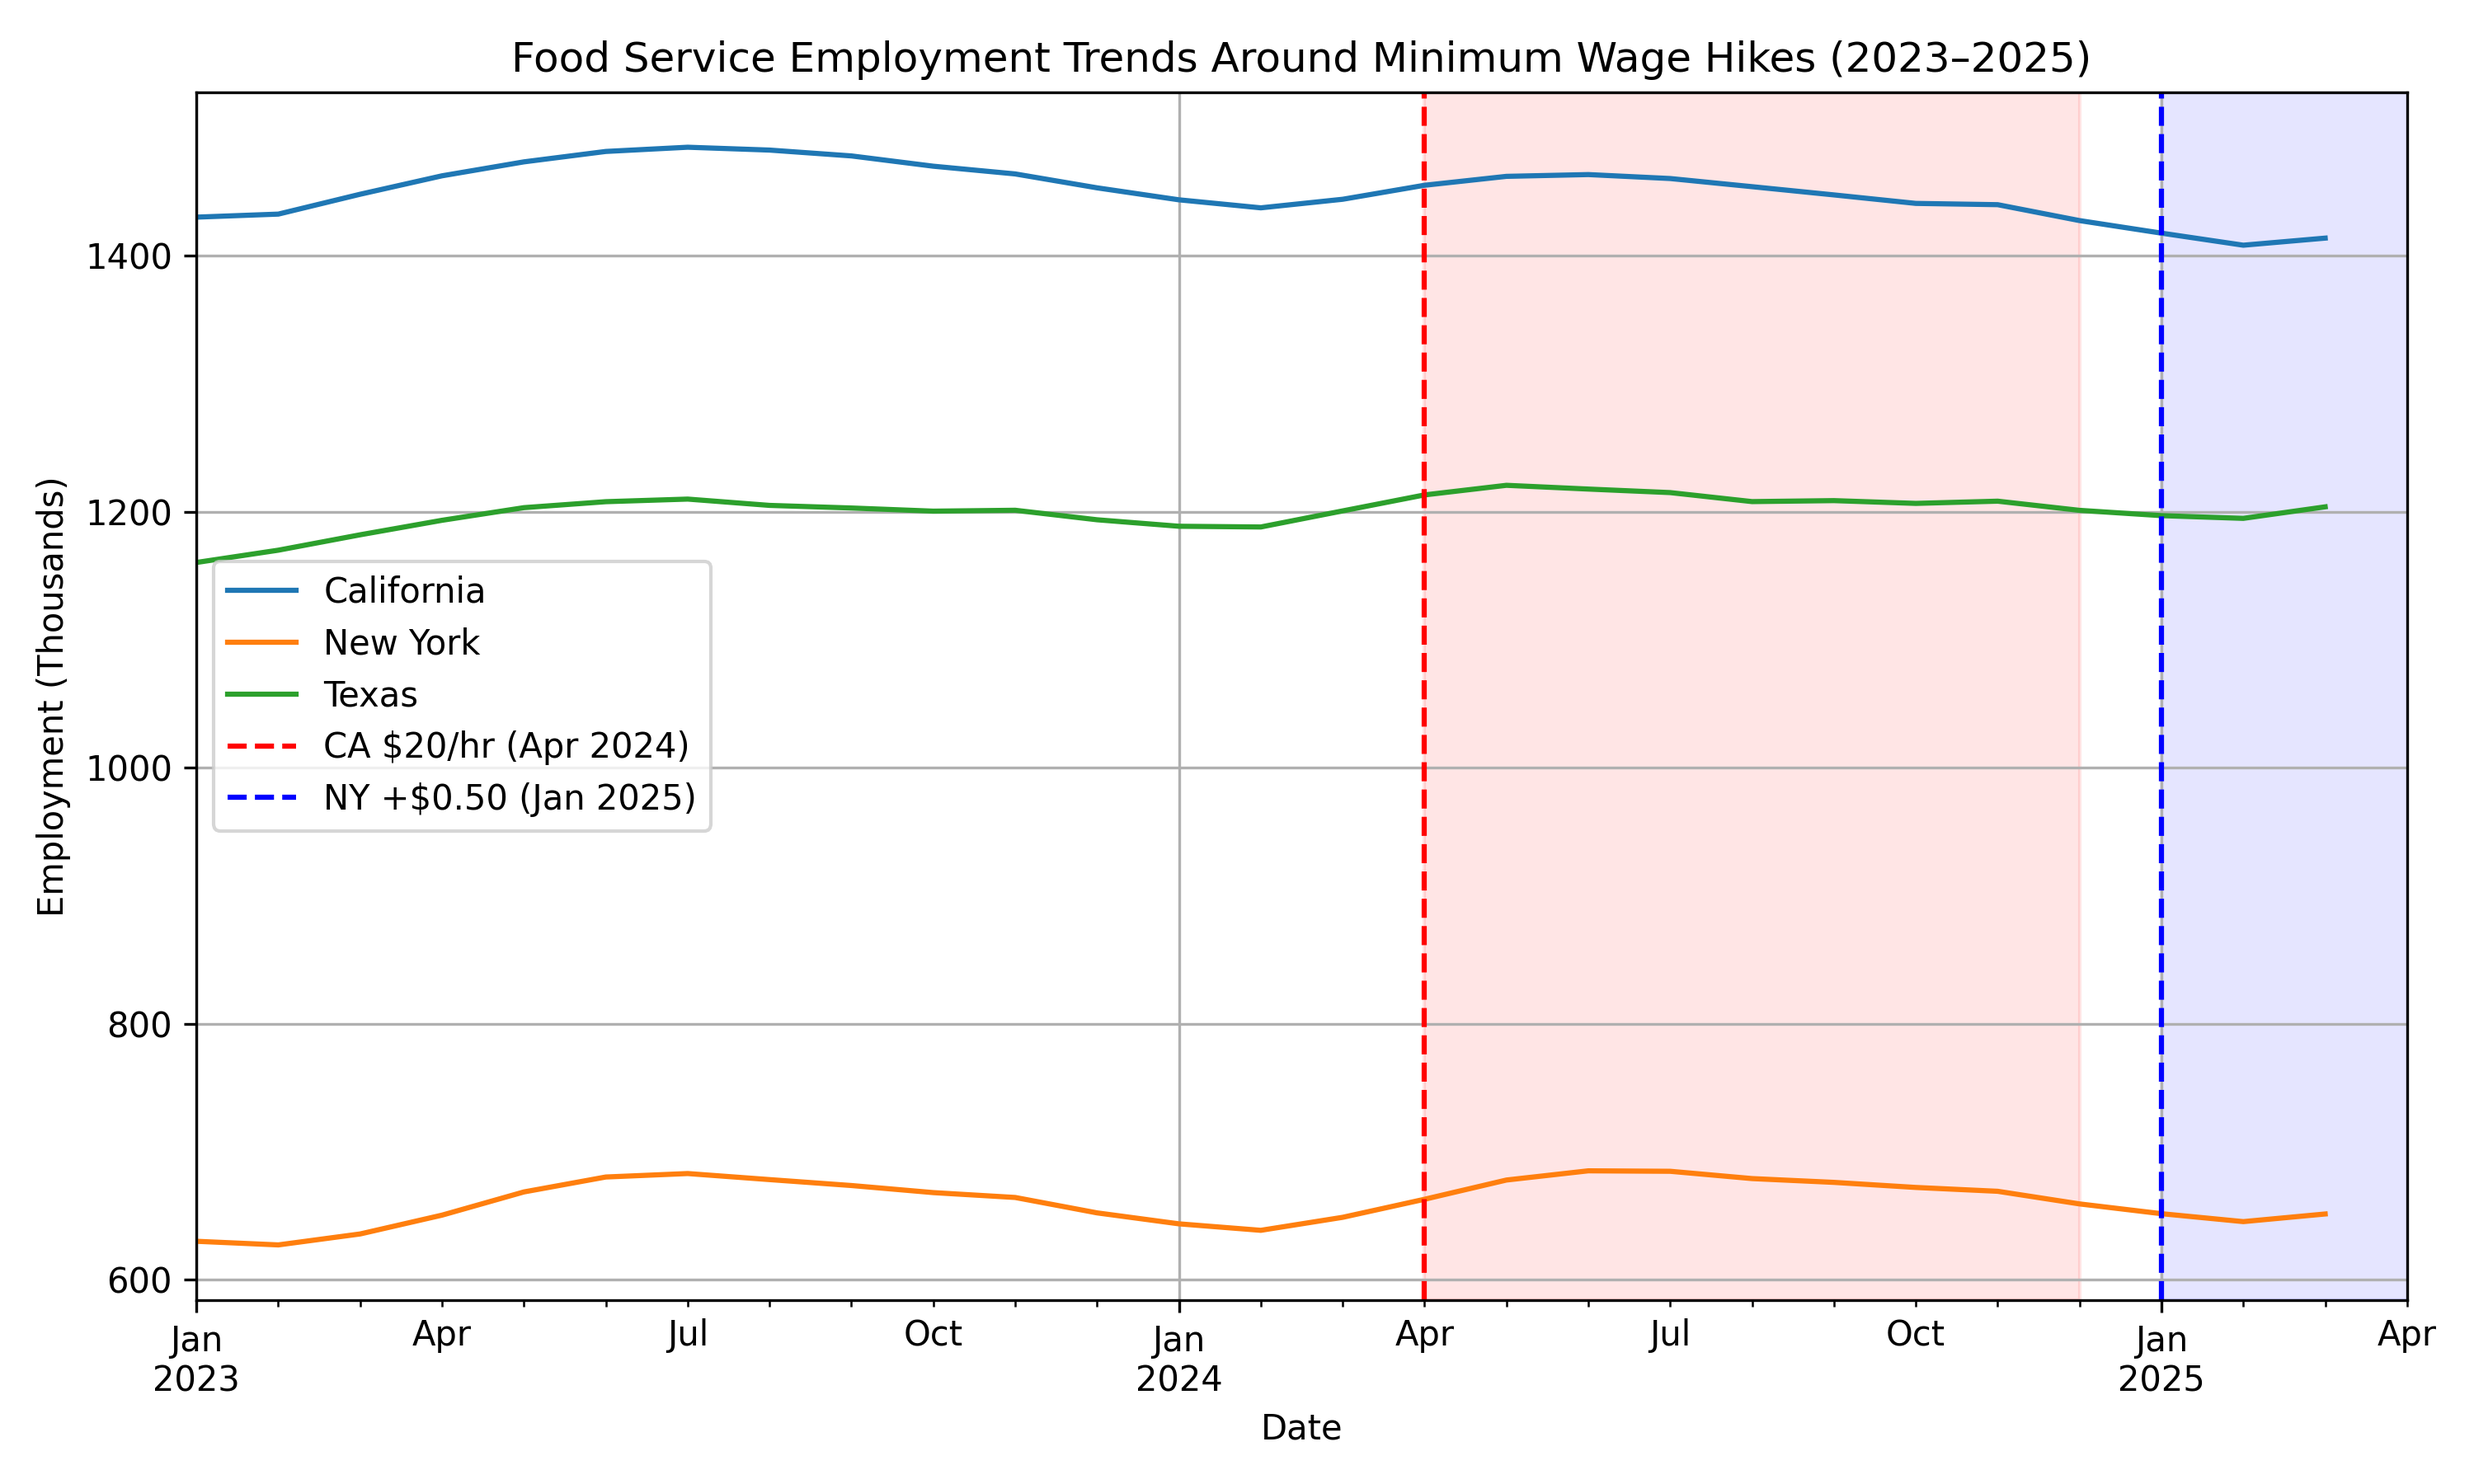
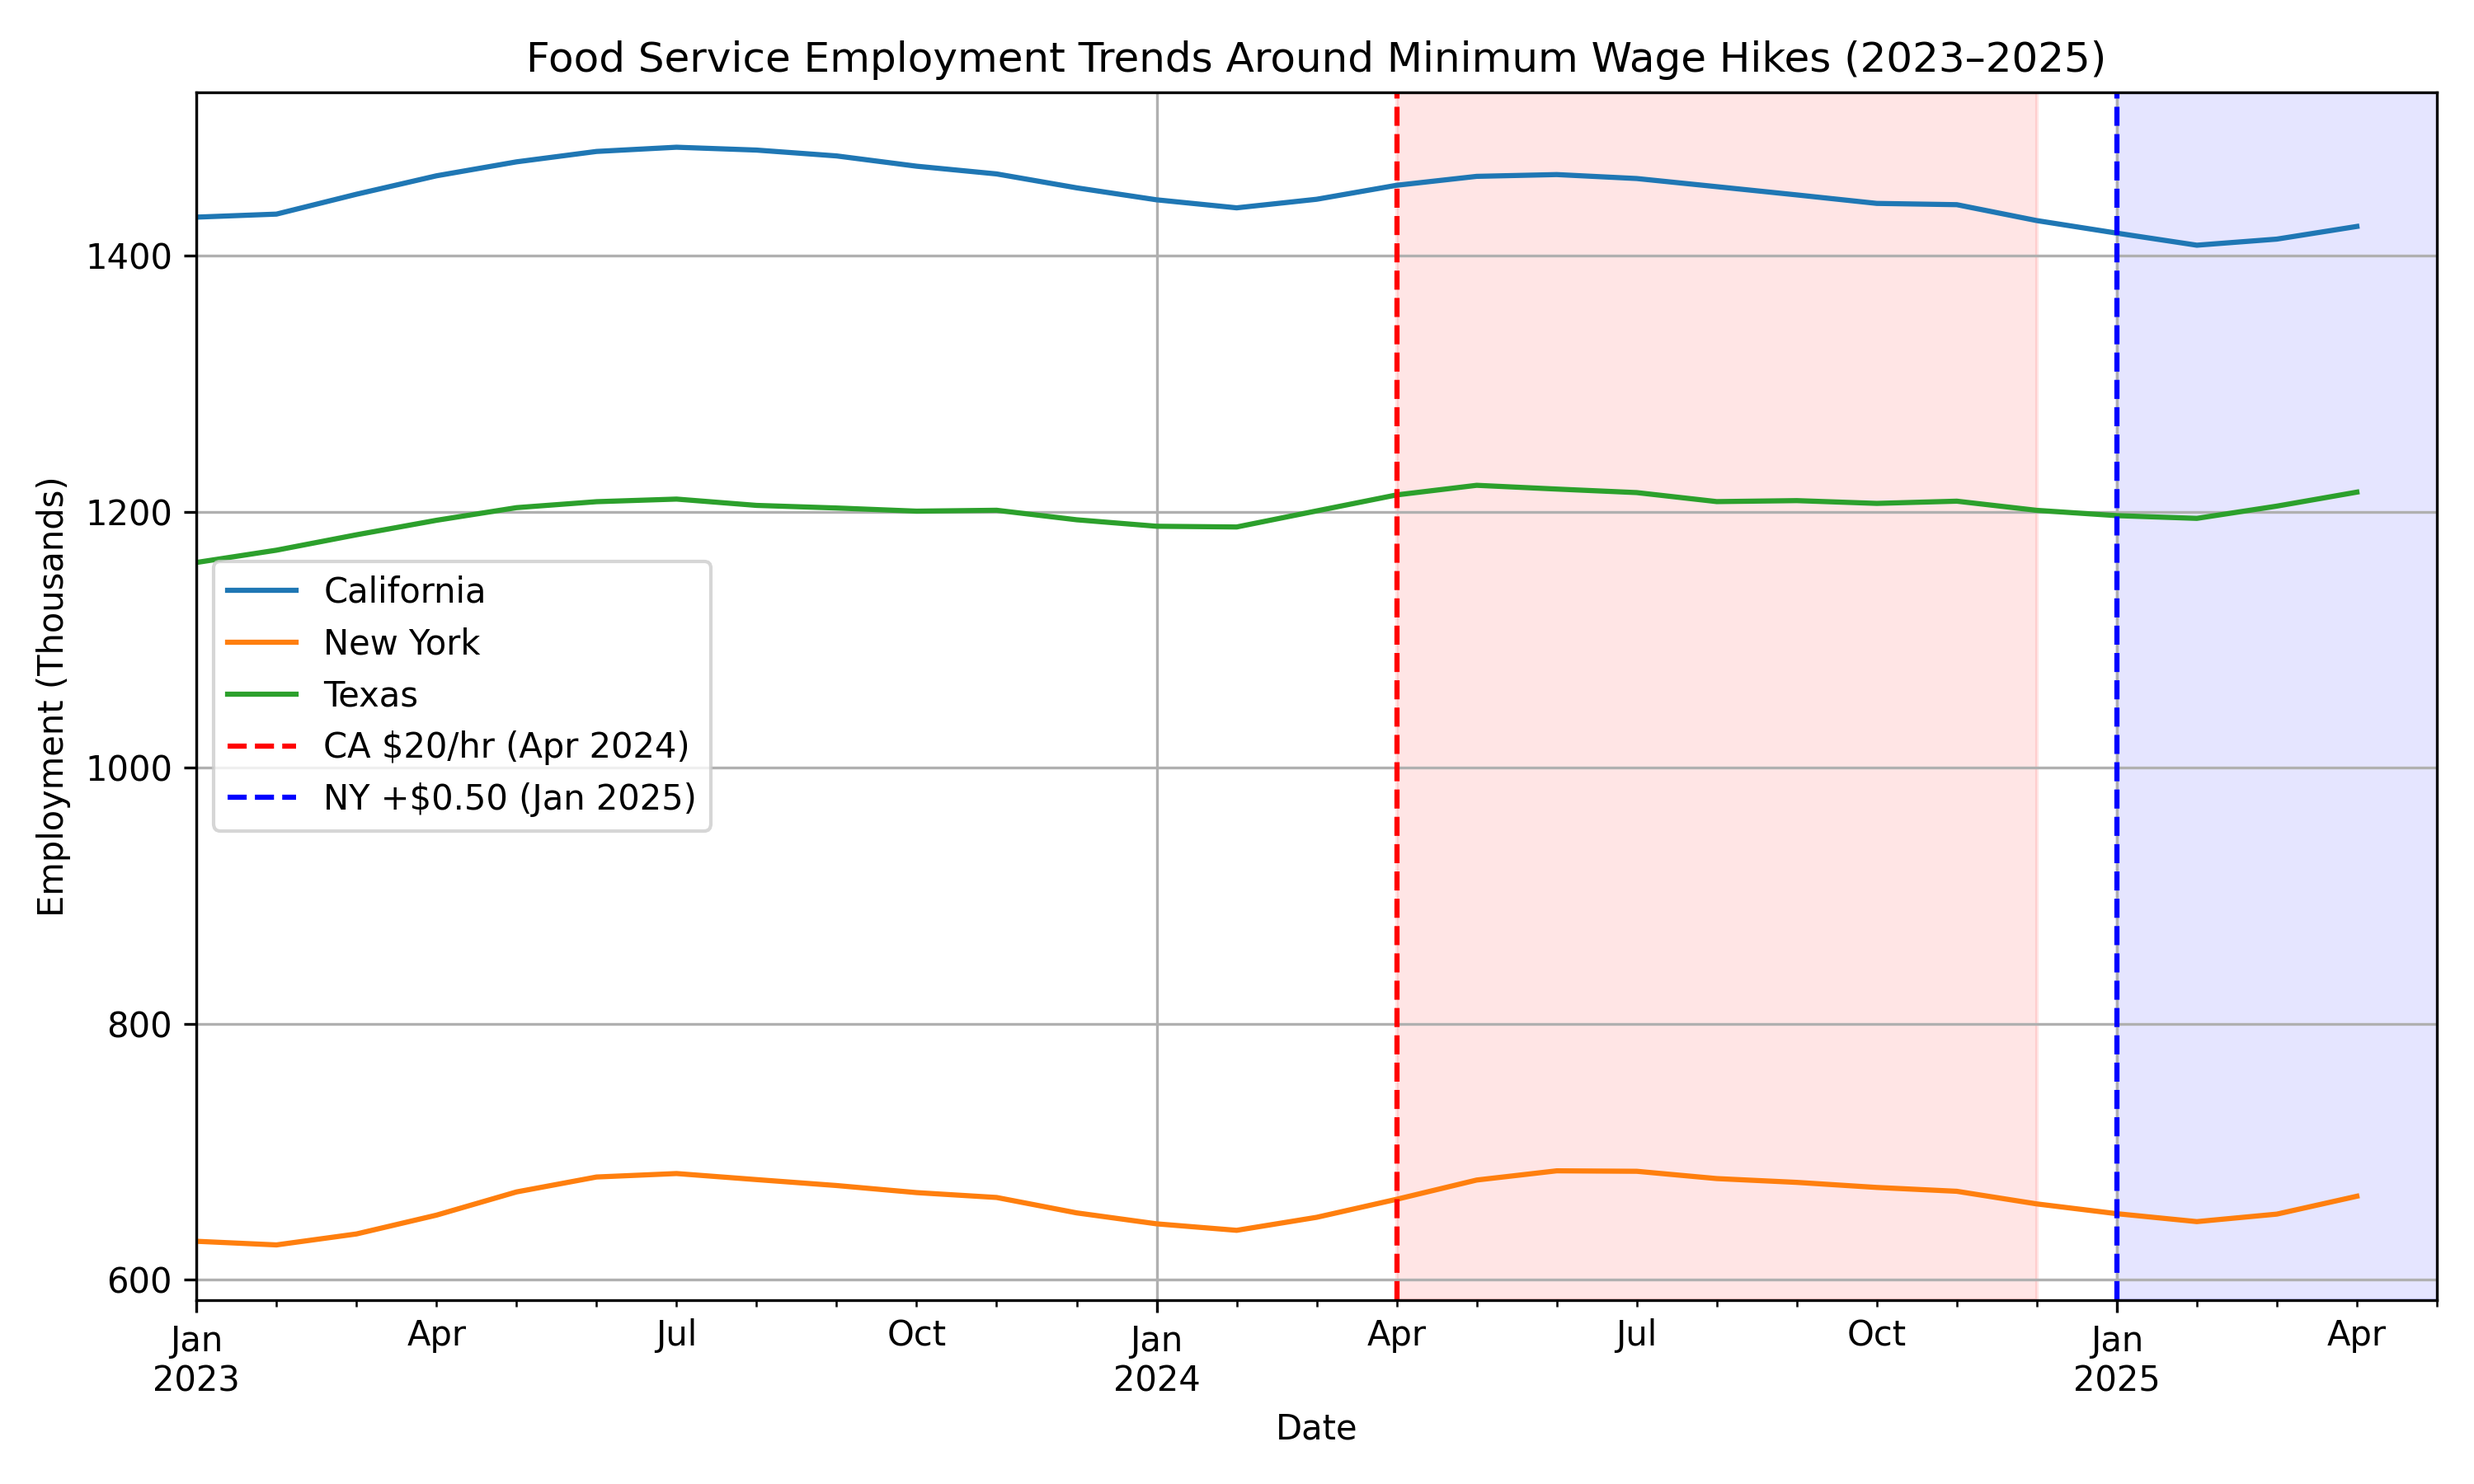
Updated to july 2025 and event studies

diff --git a/did_analysis.py b/did_analysis.py
@@ -1,5 +1,6 @@
 import pandas as pd
 import statsmodels.formula.api as smf
+import statsmodels.api as sm
 import matplotlib.pyplot as plt
 import os
 
@@ -9,79 +10,129 @@ def run_did():
     results_dir = "results"
     os.makedirs(results_dir, exist_ok=True)
 
-    # ---------- CA vs TX ----------
+    # ---------- CA vs TX DiD ----------
     print("Running CA vs TX DiD...")
+    results_file_ca = os.path.join(results_dir, "did_summary_ca.txt")
 
-    results_file = os.path.join(results_dir, "did_summary.txt")
-
-    # Load data
+    # Load & filter data
     df = pd.read_csv(data_file, parse_dates=True, index_col=0)
-    df = df[["California", "Texas"]]  # Focus on CA (treatment) vs TX (control)
+    df = df[['California', 'Texas']]
+    df = df.loc['2022-01-01':'2025-07-31']
 
-    # Filter date range
-    df = df[df.index >= "2022-01-01"]
-    df = df[df.index <= "2025-06-01"]
+    # Reshape and create indicators
+    ca = df.reset_index().rename(columns={'index': 'date'})
+    long_ca = ca.melt(id_vars='date', var_name='state', value_name='employment')
+    long_ca['treated'] = (long_ca['state'] == 'California').astype(int)
+    long_ca['post_policy'] = (long_ca['date'] >= pd.to_datetime('2024-04-01')).astype(int)
 
-    # Reshape to long format
-    df = df.reset_index().rename(columns={"index": "date"})
-    long_df = df.melt(id_vars="date", var_name="state", value_name="employment")
-    # Define treatment and post-policy indicators
-    long_df["treated"] = (long_df["state"] == "California").astype(int)
-    long_df["post_policy"] = (long_df["date"] >= "2024-04-01").astype(int)
+    # Run DiD with robust SE
+    model_ca = smf.ols('employment ~ treated + post_policy + treated:post_policy', data=long_ca).fit(cov_type='HC1')
+    with open(results_file_ca, 'w') as f:
+        f.write(model_ca.summary().as_text())
+    print(f"CA DiD summary saved to {results_file_ca}")
 
-    # DiD regression
-    model = smf.ols("employment ~ treated + post_policy + treated:post_policy", data=long_df).fit()
-
-    # Save results
-    with open(results_file, "w") as f:
-        f.write(model.summary().as_text())
-
-    print(f"DiD regression complete. Summary saved to: {results_file}")
-
-    # Optional: plot parallel trends
-    pivot_df = long_df.pivot(index="date", columns="state", values="employment")
-    plt.figure(figsize=(10, 6))
-    pivot_df.plot(ax=plt.gca())
-    plt.axvline(pd.to_datetime("2024-04-01"), color='red', linestyle='--', label='Policy Date')
-    plt.title("Food Service Employment: CA vs TX (2022–2025)")
-    plt.ylabel("Employment (Thousands)")
+    # Plot parallel trends
+    pivot_ca = long_ca.pivot(index='date', columns='state', values='employment')
+    plt.figure(figsize=(8,5))
+    pivot_ca.plot(ax=plt.gca())
+    plt.axvline(pd.to_datetime('2024-04-01'), color='r', linestyle='--', label='Policy Date')
+    plt.title('CA vs TX Employment Trends')
     plt.legend()
-    plt.grid(True)
     plt.tight_layout()
-    plt.savefig("figures/did_plot_ca_tx.png", dpi=300)
+    plt.savefig('figures/ca_tx_trends.png')
     plt.close()
 
-    print("Parallel trends plot saved to: figures/did_plot_ca_tx.png")
+    # ---------- CA Event Study ----------
+    print("Running CA event study...")
+    policy_date_ca = pd.to_datetime('2024-04-01')
+    long_ca['rel_month'] = (long_ca['date'].dt.to_period('M') - policy_date_ca.to_period('M')).apply(lambda x: x.n)
+    for m in range(-12, 13):
+        if m != 0:
+            long_ca[f'rel_{m}'] = ((long_ca['rel_month'] == m) & (long_ca['treated'] == 1)).astype(int)
 
-    # ---------- NY vs TX ----------
-    print("\nRunning NY vs TX DiD...")
+    # Only include dummy indicators, exclude helper column
+    rel_cols_ca = [c for c in long_ca.columns if c.startswith('rel_') and c != 'rel_month']
+    rel_cols_ca = sorted(rel_cols_ca, key=lambda x: int(x.split('_')[1]))
 
+    # Build design matrix
+    X_ca = long_ca[rel_cols_ca + ['treated']]
+    X_ca = sm.add_constant(X_ca)
+    y_ca = long_ca['employment']
+    evt_ca = sm.OLS(y_ca, X_ca).fit(cov_type='HC1')
+
+    coefs_ca = evt_ca.params[rel_cols_ca]
+    cis_ca = evt_ca.conf_int().loc[rel_cols_ca]
+    months_ca = [int(c.split('_')[1]) for c in rel_cols_ca]
+
+    plt.figure(figsize=(8,5))
+    plt.errorbar(months_ca, coefs_ca, yerr=[coefs_ca - cis_ca[0], cis_ca[1] - coefs_ca], fmt='o')
+    plt.axhline(0, color='k', ls='--')
+    plt.axvline(0, color='r', ls='--', label='Policy Implementation')
+    plt.title('CA Event Study')
+    plt.xlabel('Months Relative to Policy')
+    plt.ylabel('Employment Effect')
+    plt.legend()
+    plt.tight_layout()
+    plt.savefig('figures/event_study_ca.png')
+    plt.close()
+    print("CA event study plot saved.")
+
+    # ---------- NY vs TX DiD ----------
+    print("Running NY vs TX DiD...")
     results_file_ny = os.path.join(results_dir, "did_summary_ny.txt")
     df_ny = pd.read_csv(data_file, parse_dates=True, index_col=0)
-    df_ny = df_ny[["New York", "Texas"]]
-    df_ny = df_ny[df_ny.index >= "2022-01-01"]
-    df_ny = df_ny[df_ny.index <= "2025-06-01"]
-    df_ny = df_ny.reset_index().rename(columns={"index": "date"})
-    long_df_ny = df_ny.melt(id_vars="date", var_name="state", value_name="employment")
-    long_df_ny["treated"] = (long_df_ny["state"] == "New York").astype(int)
-    long_df_ny["post_policy"] = (long_df_ny["date"] >= "2025-01-01").astype(int)
+    df_ny = df_ny[['New York', 'Texas']]
+    df_ny = df_ny.loc['2022-01-01':'2025-07-31']
 
-    model_ny = smf.ols("employment ~ treated + post_policy + treated:post_policy", data=long_df_ny).fit()
-    with open(results_file_ny, "w") as f:
+    ny = df_ny.reset_index().rename(columns={'index': 'date'})
+    long_ny = ny.melt(id_vars='date', var_name='state', value_name='employment')
+    long_ny['treated'] = (long_ny['state'] == 'New York').astype(int)
+    long_ny['post_policy'] = (long_ny['date'] >= pd.to_datetime('2025-01-01')).astype(int)
+
+    model_ny = smf.ols('employment ~ treated + post_policy + treated:post_policy', data=long_ny).fit(cov_type='HC1')
+    with open(results_file_ny, 'w') as f:
         f.write(model_ny.summary().as_text())
+    print(f"NY DiD summary saved to {results_file_ny}")
 
-    print(f"NY DiD regression complete. Summary saved to: {results_file_ny}")
-
-    pivot_df_ny = long_df_ny.pivot(index="date", columns="state", values="employment")
-    plt.figure(figsize=(10, 6))
-    pivot_df_ny.plot(ax=plt.gca())
-    plt.axvline(pd.to_datetime("2025-01-01"), color='red', linestyle='--', label='Policy Date')
-    plt.title("Food Service Employment: NY vs TX (2022–2025)")
-    plt.ylabel("Employment (Thousands)")
+    pivot_ny = long_ny.pivot(index='date', columns='state', values='employment')
+    plt.figure(figsize=(8,5))
+    pivot_ny.plot(ax=plt.gca())
+    plt.axvline(pd.to_datetime('2025-01-01'), color='r', linestyle='--', label='Policy Date')
+    plt.title('NY vs TX Employment Trends')
     plt.legend()
-    plt.grid(True)
     plt.tight_layout()
-    plt.savefig("figures/did_plot_ny_tx.png", dpi=300)
+    plt.savefig('figures/ny_tx_trends.png')
     plt.close()
 
-    print("Parallel trends plot saved to: figures/did_plot_ny_tx.png")
+    # ---------- NY Event Study ----------
+    print("Running NY event study...")
+    policy_date_ny = pd.to_datetime('2025-01-01')
+    long_ny['rel_month'] = (long_ny['date'].dt.to_period('M') - policy_date_ny.to_period('M')).apply(lambda x: x.n)
+    for m in range(-12, 13):
+        if m != 0:
+            long_ny[f'rel_{m}'] = ((long_ny['rel_month'] == m) & (long_ny['treated'] == 1)).astype(int)
+
+    rel_cols_ny = [c for c in long_ny.columns if c.startswith('rel_') and c != 'rel_month']
+    rel_cols_ny = sorted(rel_cols_ny, key=lambda x: int(x.split('_')[1]))
+
+    X_ny = long_ny[rel_cols_ny + ['treated']]
+    X_ny = sm.add_constant(X_ny)
+    y_ny = long_ny['employment']
+    evt_ny = sm.OLS(y_ny, X_ny).fit(cov_type='HC1')
+
+    coefs_ny = evt_ny.params[rel_cols_ny]
+    cis_ny = evt_ny.conf_int().loc[rel_cols_ny]
+    months_ny = [int(c.split('_')[1]) for c in rel_cols_ny]
+
+    plt.figure(figsize=(8,5))
+    plt.errorbar(months_ny, coefs_ny, yerr=[coefs_ny - cis_ny[0], cis_ny[1] - coefs_ny], fmt='o')
+    plt.axhline(0, color='k', ls='--')
+    plt.axvline(0, color='r', ls='--', label='Policy Implementation')
+    plt.title('NY Event Study')
+    plt.xlabel('Months Relative to Policy')
+    plt.ylabel('Employment Effect')
+    plt.legend()
+    plt.tight_layout()
+    plt.savefig('figures/event_study_ny.png')
+    plt.close()
+    print("NY event study plot saved.")

diff --git a/main.py b/main.py
@@ -5,7 +5,7 @@ import matplotlib.pyplot as plt
 import did_analysis
 
 # Replace with your actual FRED API key
-FRED_API_KEY = 'FRED_KEY_HERE'
+FRED_API_KEY = ''
 
 
 def generate_data_and_charts():
@@ -46,7 +46,7 @@ def generate_data_and_charts():
         df = pd.read_csv(data_file, index_col=0, parse_dates=True)
 
     # Filter for recent years
-    df = df[df.index >= '2020-01-01']
+    df = df[(df.index >= '2020-01-01') & (df.index <= pd.to_datetime('today'))]
 
     # Plot Figure 1
     plt.figure(figsize=(10, 6))
@@ -70,7 +70,7 @@ def generate_data_and_charts():
 
     # Plot Figure 2 (smoothed and zoomed)
     df_smooth = df.rolling(window=3, center=True).mean()
-    df_zoom = df_smooth[(df_smooth.index >= '2023-01-01') & (df_smooth.index <= '2025-06-01')]
+    df_zoom = df_smooth[(df_smooth.index >= '2023-01-01') & (df_smooth.index <= '2025-08-01')]
     fig2_path = os.path.join(figures_dir, 'foodservice_employment_policy_window.png')
     plt.figure(figsize=(10, 6))
     df_zoom.plot(ax=plt.gca())
